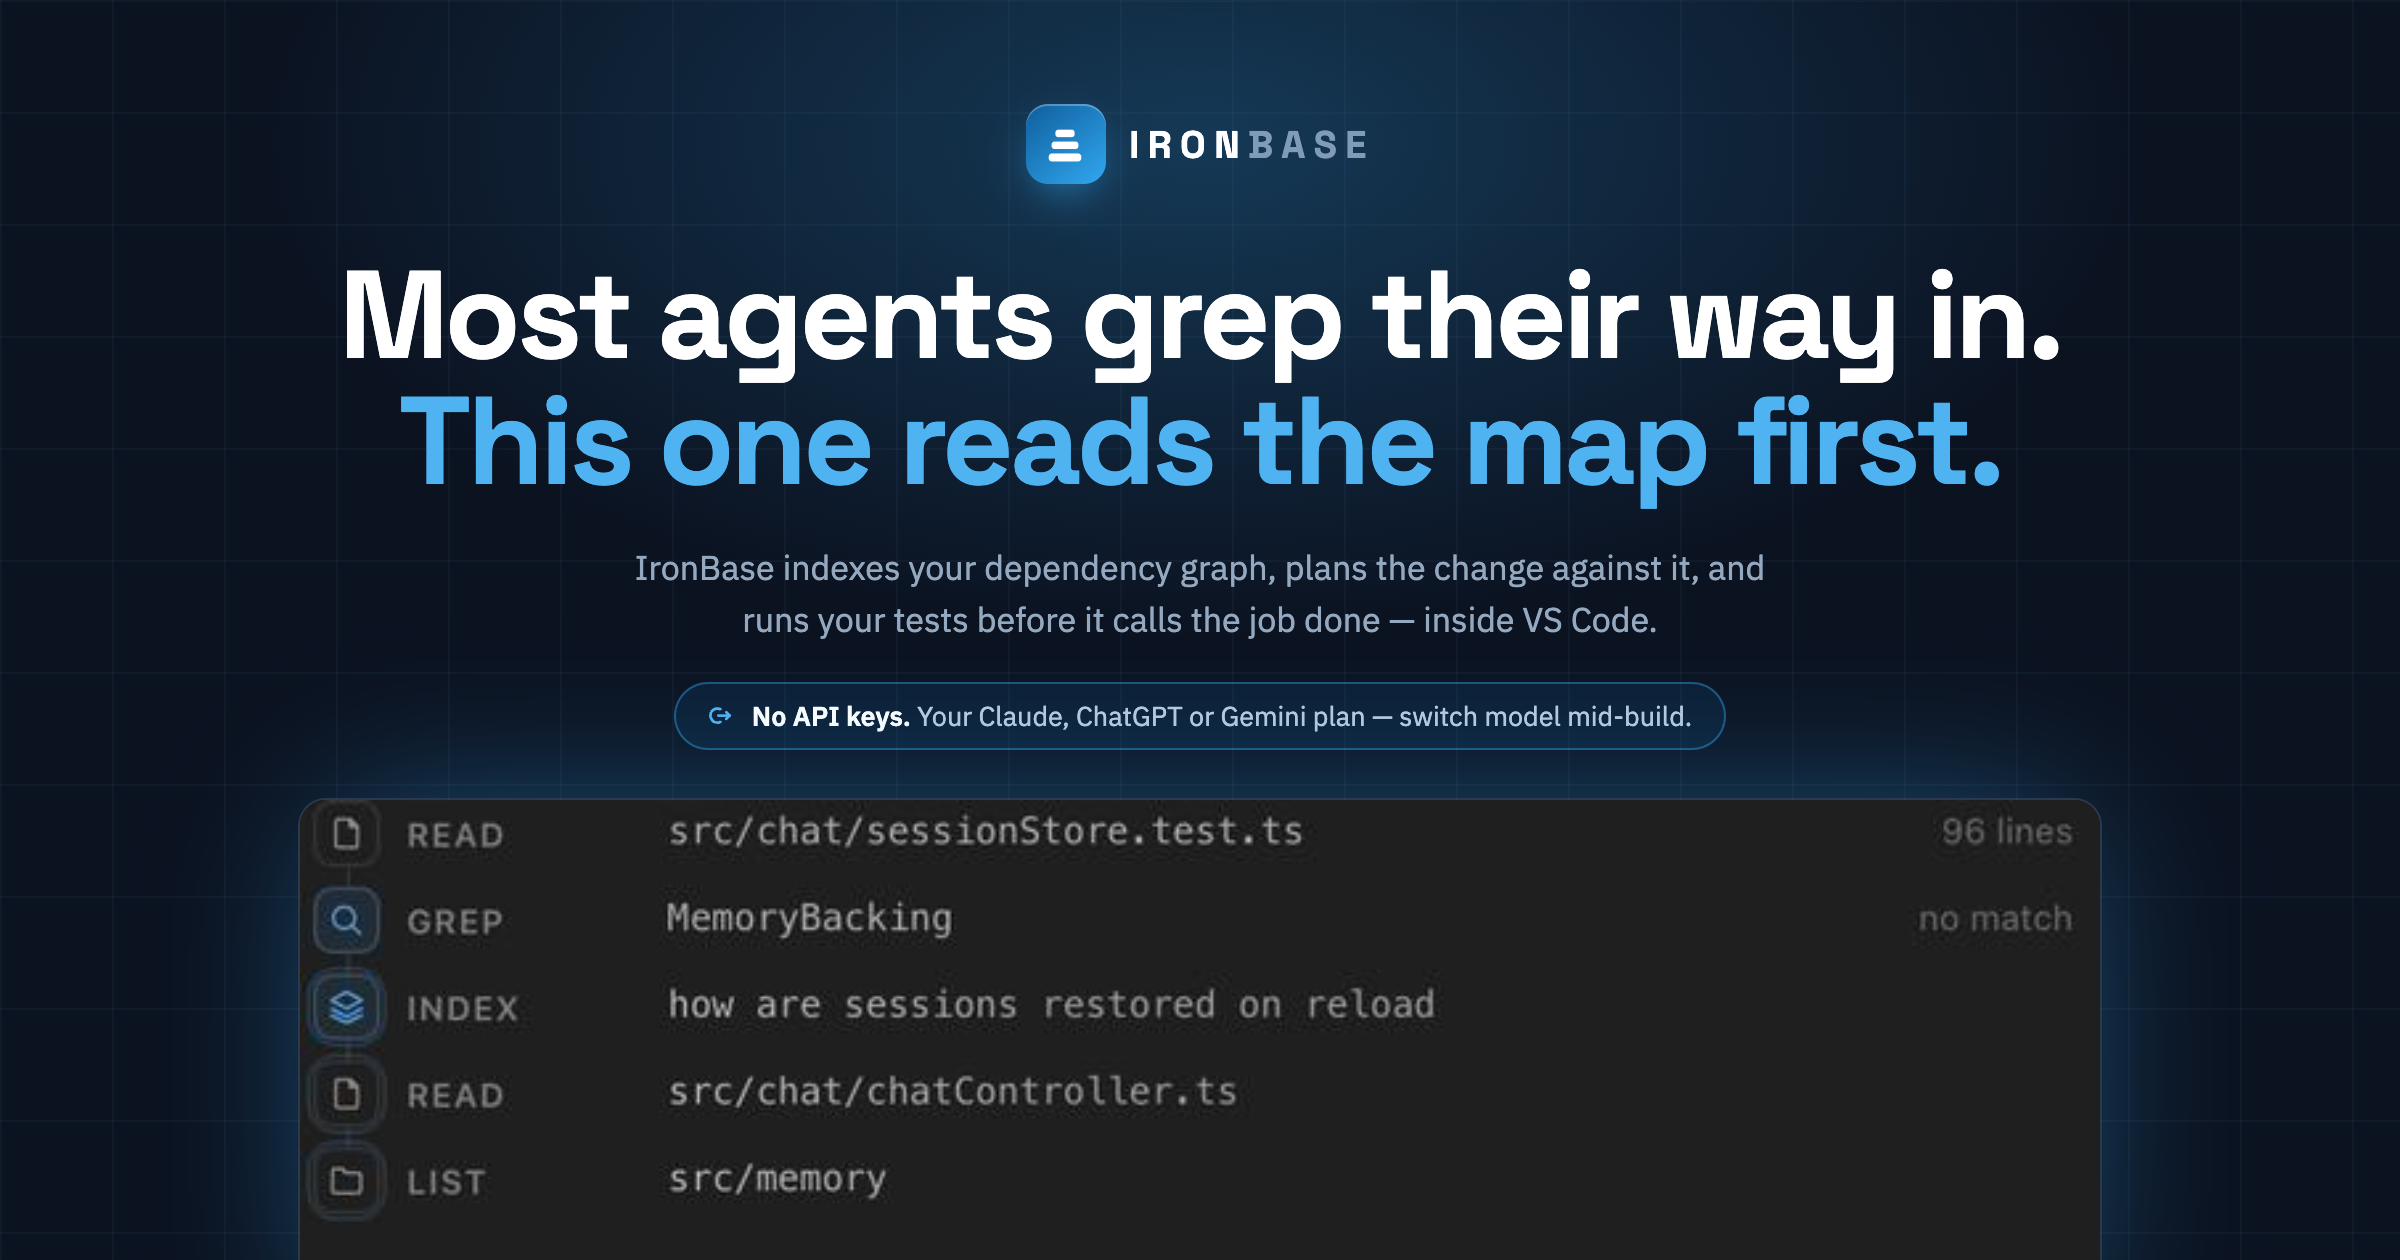
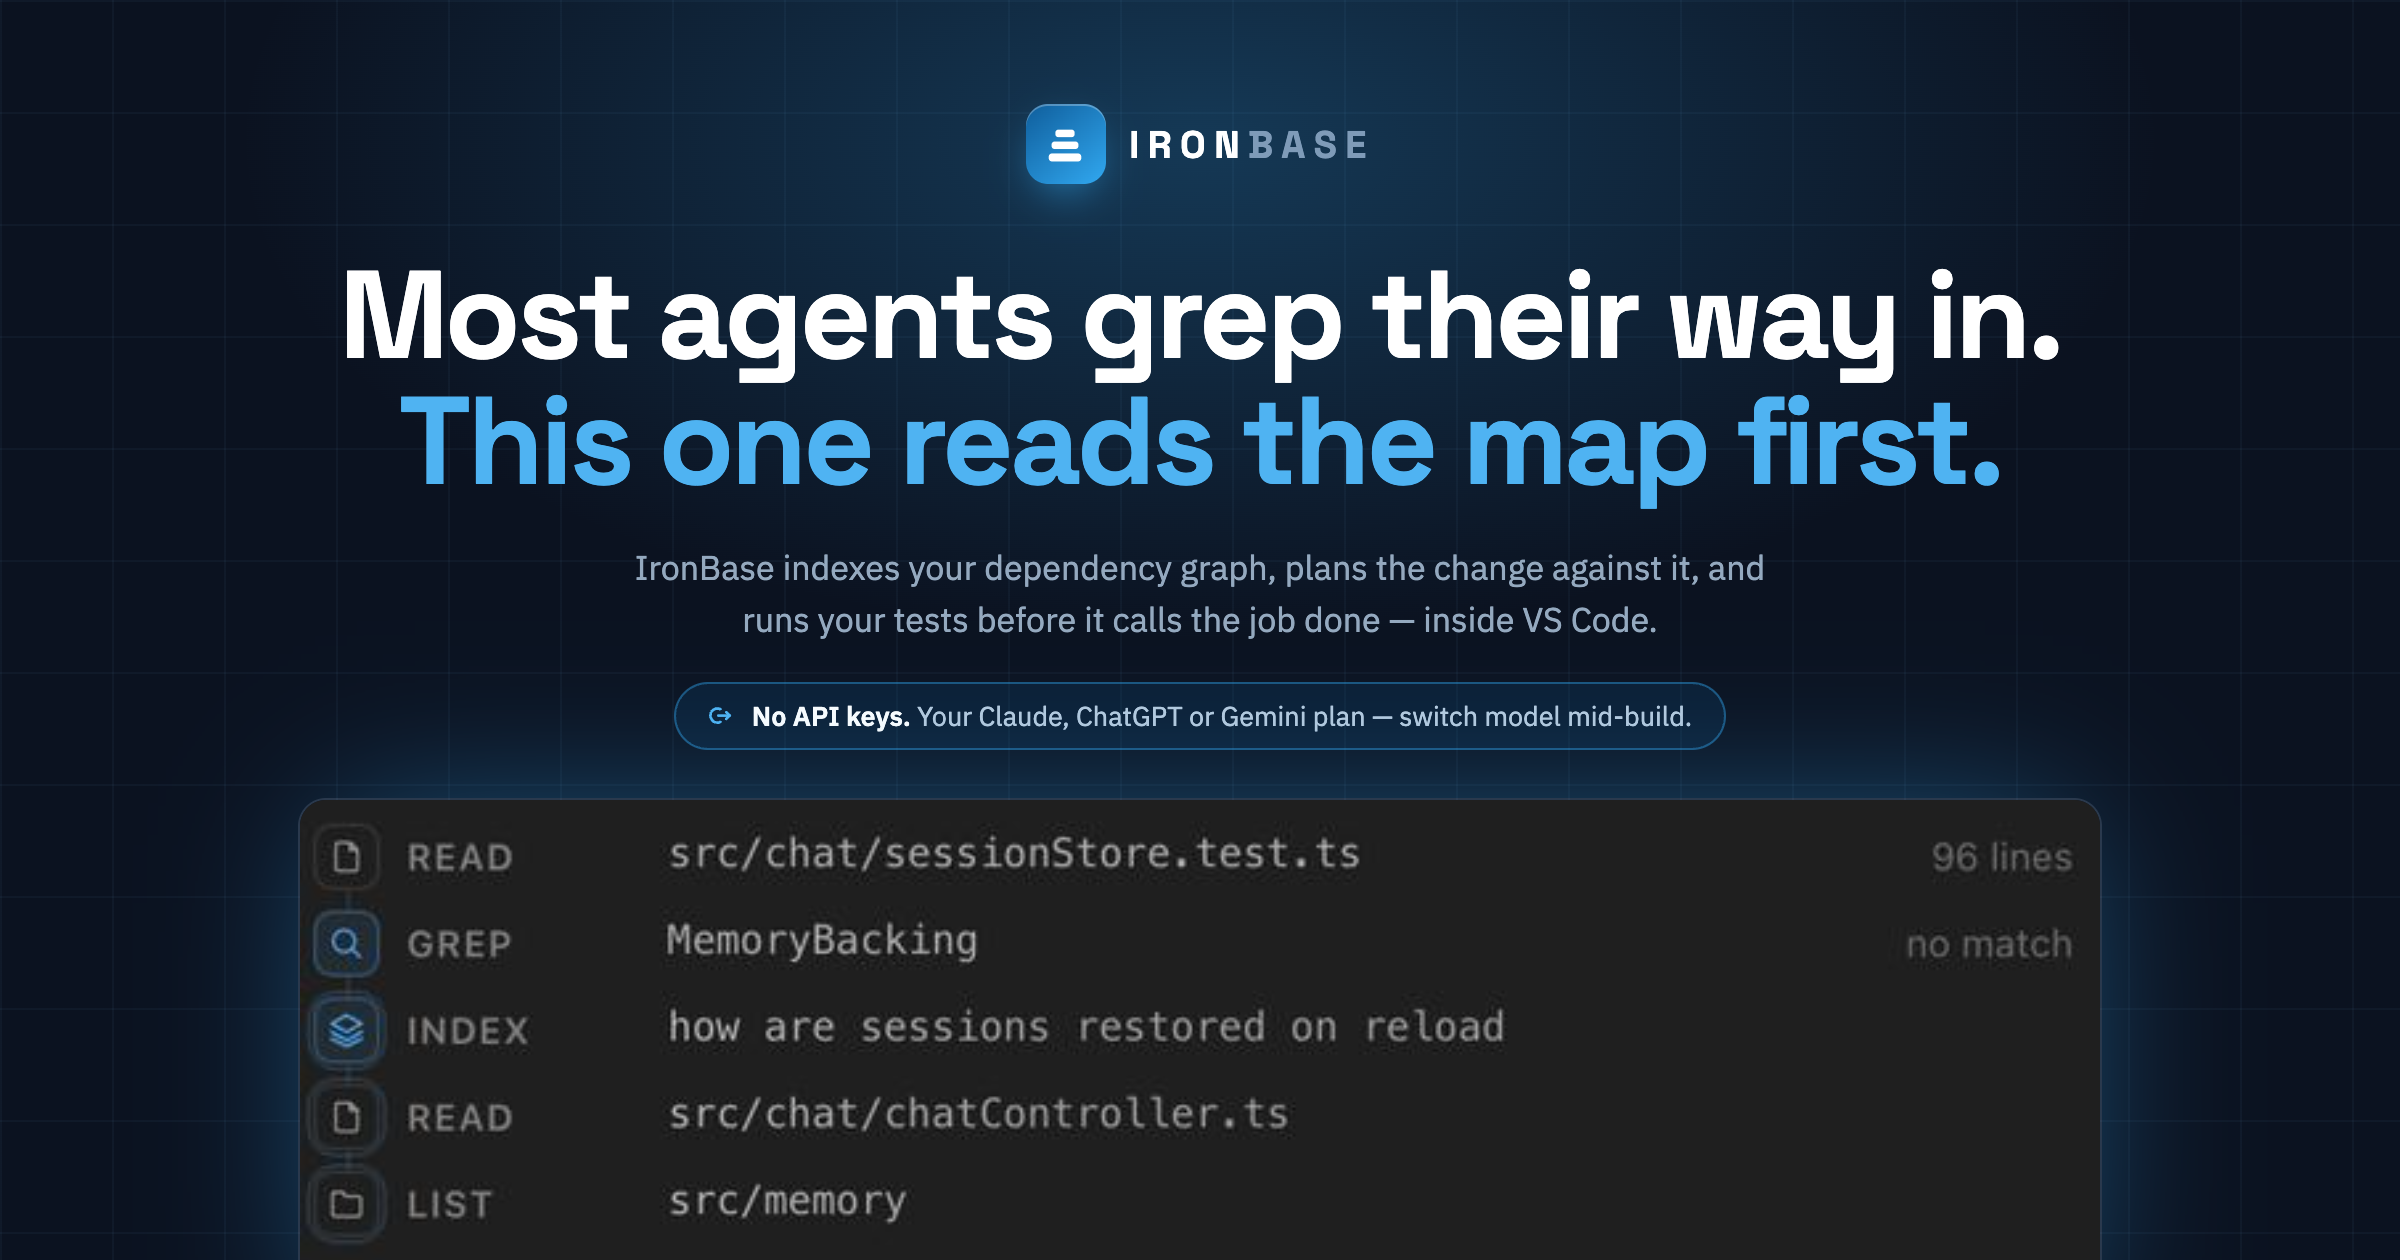
Run the conversation a step larger
The panel is read, not scanned, and it was set at the sidebar's scale — 13.5px
body, 11px paths, a 10.5px result note. The whole ramp moves up a tenth, so
body is 15px and every step above and below it keeps its distance; bumping
the body alone would have flattened the hierarchy into one size.

The shared button and sign-in blocks are still written for the sidebar, so
the conversation overrides them rather than dragging the sidebar up with it —
a 12px button label under 15px prose reads as a mistake.

Checked at 300px, where a larger ramp is most likely to overflow: the paths
still truncate from the left, the composer still collapses its labels to
marks, and nothing runs off the edge. Poster screenshots regenerated so the
marketing shows the panel as it is now.

diff --git a/src/report/styles.ts b/src/report/styles.ts
@@ -1498,6 +1498,15 @@ ${TOKENS}
 ${BUTTONS}
 ${SIGN_IN}
 
+/* The shared button and sign-in blocks are written at the sidebar's scale.
+   The conversation is read, not scanned, so it runs a step larger — and a
+   12px button label under 15px prose reads as a mistake. */
+button { font-size: 13px; }
+.connect .name { font-size: 13.5px; }
+.connect .detail { font-size: 12px; }
+button.chip { font-size: 12px; }
+.footnote { font-size: 12px; }
+
 :root {
   --chat-radius: 10px;
   --head-h: 1px;
@@ -1506,7 +1515,7 @@ ${SIGN_IN}
 body {
   margin: 0;
   font-family: var(--vscode-font-family);
-  font-size: 13.5px;
+  font-size: 15px;
   line-height: 1.62;
   letter-spacing: -0.003em;
   color: var(--ink);
@@ -1540,7 +1549,7 @@ body {
   flex: 1 1 auto;
   min-width: 0;
   font-weight: 600;
-  font-size: 12.5px;
+  font-size: 14px;
   letter-spacing: -0.01em;
   overflow: hidden;
   text-overflow: ellipsis;
@@ -1587,7 +1596,7 @@ body {
   flex: 0 0 auto;
   padding: 0.18rem 0.55rem 0.18rem 0.42rem;
   border-radius: 999px;
-  font-size: 10px;
+  font-size: 11px;
   font-weight: 600;
   letter-spacing: 0.04em;
   text-transform: uppercase;
@@ -1612,7 +1621,7 @@ body {
   display: inline-flex;
   align-items: center;
   gap: 0.3rem;
-  font-size: 11px;
+  font-size: 12px;
   color: var(--ink-muted);
   font-variant-numeric: tabular-nums;
   white-space: nowrap;
@@ -1628,7 +1637,7 @@ button.meter {
   padding: 0.1rem 0.3rem;
   margin: -0.1rem -0.3rem;
   border-radius: var(--radius-sm);
-  font-size: 11px;
+  font-size: 12px;
 }
 button.meter:hover { background: var(--surface-raised); color: var(--ink); }
 button.meter.changed { color: var(--sev-medium); }
@@ -1651,13 +1660,13 @@ button.meter.changed { color: var(--sev-medium); }
 }
 .todos h3 {
   margin: 0 0 var(--space-2);
-  font-size: 10px;
+  font-size: 11px;
   font-weight: 600;
   letter-spacing: 0.06em;
   text-transform: uppercase;
   color: var(--ink-muted);
 }
-.todo { display: flex; align-items: baseline; gap: var(--space-2); font-size: 12px; padding: 2px 0; }
+.todo { display: flex; align-items: baseline; gap: var(--space-2); font-size: 13px; padding: 2px 0; }
 .todo .box { flex: 0 0 auto; width: 13px; color: var(--ink-muted); font-variant-numeric: tabular-nums; }
 .todo .label { min-width: 0; overflow-wrap: anywhere; }
 .todo.done { color: var(--ink-muted); }
@@ -1697,7 +1706,7 @@ button.meter.changed { color: var(--sev-medium); }
 }
 .assistant pre {
   font-family: var(--mono);
-  font-size: 12px;
+  font-size: 13px;
   line-height: 1.5;
   background: var(--surface-sunken);
   border: 1px solid var(--hairline);
@@ -1752,7 +1761,7 @@ button.meter.changed { color: var(--sev-medium); }
   margin-inline: -6px;
   padding: 3px 6px;
   border-radius: var(--radius-sm);
-  font-size: 11.5px;
+  font-size: 12.5px;
   color: var(--ink-muted);
 }
 .trace-row:hover { background: var(--surface); color: var(--ink); }
@@ -1788,7 +1797,7 @@ button.meter.changed { color: var(--sev-medium); }
 }
 
 .trace-row .verb {
-  font-size: 10px;
+  font-size: 11px;
   font-weight: 600;
   letter-spacing: 0.05em;
   text-transform: uppercase;
@@ -1800,7 +1809,7 @@ button.meter.changed { color: var(--sev-medium); }
 .trace-row .arg {
   min-width: 0;
   font-family: var(--mono);
-  font-size: 11px;
+  font-size: 12px;
   color: var(--ink);
   opacity: 0.82;
   overflow: hidden;
@@ -1810,7 +1819,7 @@ button.meter.changed { color: var(--sev-medium); }
 /* A path is read from its end, so it is the start that gives way. */
 .trace-row .arg.path { direction: rtl; text-align: left; }
 .trace-row .note {
-  font-size: 10.5px;
+  font-size: 11.5px;
   font-variant-numeric: tabular-nums;
   opacity: 0.6;
   white-space: nowrap;
@@ -1869,7 +1878,7 @@ button.meter.changed { color: var(--sev-medium); }
   margin-inline: -6px;
   padding: 3px 6px;
   border-radius: var(--radius-sm);
-  font-size: 10.5px;
+  font-size: 11.5px;
   color: var(--ink-muted);
   border: none;
   text-align: left;
@@ -1903,7 +1912,7 @@ button.meter.changed { color: var(--sev-medium); }
   align-items: center;
   gap: var(--space-2);
   padding: var(--space-2) var(--space-3);
-  font-size: 12px;
+  font-size: 13px;
   background: var(--surface-raised);
   border-bottom: 1px solid var(--hairline);
   flex-wrap: wrap;
@@ -1913,7 +1922,7 @@ button.meter.changed { color: var(--sev-medium); }
   flex: 1 1 8rem;
   text-align: left;
   font-family: var(--mono);
-  font-size: 11.5px;
+  font-size: 12.5px;
   font-weight: 600;
   border: none;
   padding: 0;
@@ -1926,7 +1935,7 @@ button.meter.changed { color: var(--sev-medium); }
 .card-head .spacer { flex: 1 1 auto; }
 .card-head .verb {
   flex: 0 0 auto;
-  font-size: 10px;
+  font-size: 11px;
   font-weight: 600;
   letter-spacing: 0.04em;
   text-transform: uppercase;
@@ -1938,21 +1947,21 @@ button.meter.changed { color: var(--sev-medium); }
 .card-head .glyph.create { color: var(--good); opacity: 1; }
 .card-head .glyph.delete { color: var(--sev-critical); opacity: 1; }
 .card-head .glyph.edit { color: var(--accent); opacity: 1; }
-.counts { flex: 0 0 auto; font-family: var(--mono); font-size: 11px; font-variant-numeric: tabular-nums; }
+.counts { flex: 0 0 auto; font-family: var(--mono); font-size: 12px; font-variant-numeric: tabular-nums; }
 .counts .add { color: var(--good); }
 .counts .del { color: var(--sev-critical); }
 .card .why {
   padding: var(--space-2) var(--space-3);
   color: var(--ink-muted);
-  font-size: 11.5px;
+  font-size: 12.5px;
   border-bottom: 1px solid var(--hairline);
   overflow-wrap: anywhere;
 }
 .card.reverted { opacity: 0.55; }
-.card.reverted .card-head::after { content: "reverted"; font-size: 10px; color: var(--ink-muted); }
+.card.reverted .card-head::after { content: "reverted"; font-size: 11px; color: var(--ink-muted); }
 
 /* ---- Diff ---- */
-.diff { font-family: var(--mono); font-size: 11.5px; line-height: 1.5; overflow: auto; max-height: 22rem; }
+.diff { font-family: var(--mono); font-size: 12.5px; line-height: 1.5; overflow: auto; max-height: 22rem; }
 .diff-row { display: flex; white-space: pre; min-width: min-content; }
 .diff-row .no {
   position: sticky;
@@ -1973,10 +1982,10 @@ button.meter.changed { color: var(--sev-medium); }
 .diff-row.remove .txt::before { content: "-"; color: var(--sev-critical); }
 .diff-row.context { background: var(--surface); }
 .diff-row.context .txt::before { content: " "; }
-.diff-gap { padding: 2px var(--space-3) 2px 3rem; color: var(--ink-muted); opacity: 0.5; font-size: 10.5px; }
+.diff-gap { padding: 2px var(--space-3) 2px 3rem; color: var(--ink-muted); opacity: 0.5; font-size: 11.5px; }
 
 /* ---- Command ---- */
-.cmd { font-family: var(--mono); font-size: 11.5px; }
+.cmd { font-family: var(--mono); font-size: 12.5px; }
 .cmd .line {
   padding: var(--space-2) var(--space-3);
   font-weight: 600;
@@ -1993,7 +2002,7 @@ button.meter.changed { color: var(--sev-medium); }
   overflow: auto;
   white-space: pre-wrap;
   overflow-wrap: anywhere;
-  font-size: 11px;
+  font-size: 12px;
   line-height: 1.45;
 }
 /* A command that has printed nothing yet should not reserve a band of empty
@@ -2012,7 +2021,7 @@ button.meter.changed { color: var(--sev-medium); }
   padding: 0.1rem 0.5rem;
   border-radius: 999px;
   font-family: var(--vscode-font-family);
-  font-size: 10px;
+  font-size: 11px;
   font-weight: 600;
   letter-spacing: 0.03em;
   border: 1px solid var(--hairline-strong);
@@ -2075,17 +2084,17 @@ button.meter.changed { color: var(--sev-medium); }
 
 /* ---- Plan ---- */
 .plan { border-color: color-mix(in srgb, var(--accent) 35%, transparent); }
-.plan h2 { margin: 0; font-size: 14px; font-weight: 600; letter-spacing: -0.01em; }
+.plan h2 { margin: 0; font-size: 15.5px; font-weight: 600; letter-spacing: -0.01em; }
 .plan .body { padding: var(--space-4); }
 .plan .summary { color: var(--ink-muted); margin: var(--space-2) 0 var(--space-4); }
 .plan ol { margin: 0; padding-left: 1.25em; }
 .plan ol li { margin-bottom: var(--space-3); }
 .plan .step-title { font-weight: 600; }
-.plan .files { font-family: var(--mono); font-size: 11px; color: var(--accent); overflow-wrap: anywhere; }
-.plan .detail { color: var(--ink-muted); font-size: 12px; }
+.plan .files { font-family: var(--mono); font-size: 12px; color: var(--accent); overflow-wrap: anywhere; }
+.plan .detail { color: var(--ink-muted); font-size: 13px; }
 .plan h4 {
   margin: var(--space-4) 0 var(--space-1);
-  font-size: 10px;
+  font-size: 11px;
   font-weight: 600;
   letter-spacing: 0.06em;
   text-transform: uppercase;
@@ -2108,7 +2117,7 @@ button.meter.changed { color: var(--sev-medium); }
   gap: var(--space-2);
   padding: var(--space-2) var(--space-3);
   border-radius: var(--radius-sm);
-  font-size: 12px;
+  font-size: 13px;
   margin: var(--space-2) 0;
   border: 1px solid;
   overflow-wrap: anywhere;
@@ -2169,7 +2178,7 @@ button.meter.changed { color: var(--sev-medium); }
   max-width: 100%;
   padding: 3px 4px 3px 8px;
   border-radius: 999px;
-  font-size: 11px;
+  font-size: 12px;
   color: var(--ink);
   border: 1px solid color-mix(in srgb, var(--accent) 34%, transparent);
   background: var(--accent-soft);
@@ -2201,7 +2210,7 @@ button.meter.changed { color: var(--sev-medium); }
   max-height: 14rem;
   resize: none;
   font-family: inherit;
-  font-size: 13.5px;
+  font-size: 15px;
   line-height: 1.55;
   color: var(--ink);
   background: transparent;
@@ -2248,7 +2257,7 @@ button.meter.changed { color: var(--sev-medium); }
   flex: 0 0 auto;
   padding: 0.3rem 0.6rem;
   border-radius: 999px;
-  font-size: 11.5px;
+  font-size: 12.5px;
   color: var(--ink-muted);
   border: 1px solid transparent;
   white-space: nowrap;
@@ -2278,7 +2287,7 @@ button.meter.changed { color: var(--sev-medium); }
   padding: 0.3rem 0.55rem;
   border: 1px solid transparent;
   border-radius: 999px;
-  font-size: 11.5px;
+  font-size: 12.5px;
   color: var(--ink-muted);
   background: none;
 }
@@ -2335,7 +2344,7 @@ button.meter.changed { color: var(--sev-medium); }
 }
 .popover-group {
   padding: var(--space-2) var(--space-2) var(--space-1);
-  font-size: 10px;
+  font-size: 11px;
   font-weight: 600;
   letter-spacing: 0.06em;
   text-transform: uppercase;
@@ -2357,24 +2366,24 @@ button.meter.changed { color: var(--sev-medium); }
 .popover-row svg { flex: 0 0 auto; }
 .popover-row .body { display: grid; min-width: 0; }
 .popover-row .name {
-  font-size: 12px;
+  font-size: 13px;
   overflow: hidden;
   text-overflow: ellipsis;
   white-space: nowrap;
 }
 .popover-row .detail {
-  font-size: 10.5px;
+  font-size: 11.5px;
   color: var(--ink-muted);
   overflow: hidden;
   text-overflow: ellipsis;
   white-space: nowrap;
 }
 .popover-row .tick { margin-left: auto; color: var(--accent); }
-.popover-empty { padding: var(--space-3); font-size: 12px; color: var(--ink-muted); }
+.popover-empty { padding: var(--space-3); font-size: 13px; color: var(--ink-muted); }
 
-.toggle { display: inline-flex; align-items: center; gap: var(--space-2); font-size: 11.5px; color: var(--ink-muted); cursor: pointer; white-space: nowrap; }
+.toggle { display: inline-flex; align-items: center; gap: var(--space-2); font-size: 12.5px; color: var(--ink-muted); cursor: pointer; white-space: nowrap; }
 .toggle input { accent-color: var(--accent); }
-.hint { font-size: 11.5px; color: var(--ink-muted); margin: 0; }
+.hint { font-size: 12.5px; color: var(--ink-muted); margin: 0; }
 
 /* ---- Start page ---- */
 /*
@@ -2394,7 +2403,7 @@ button.meter.changed { color: var(--sev-medium); }
   border-radius: var(--radius-md);
   padding: var(--space-3);
   color: var(--ink-muted);
-  font-size: 12px;
+  font-size: 13px;
   text-align: left;
   line-height: 1.45;
   background: var(--surface);
